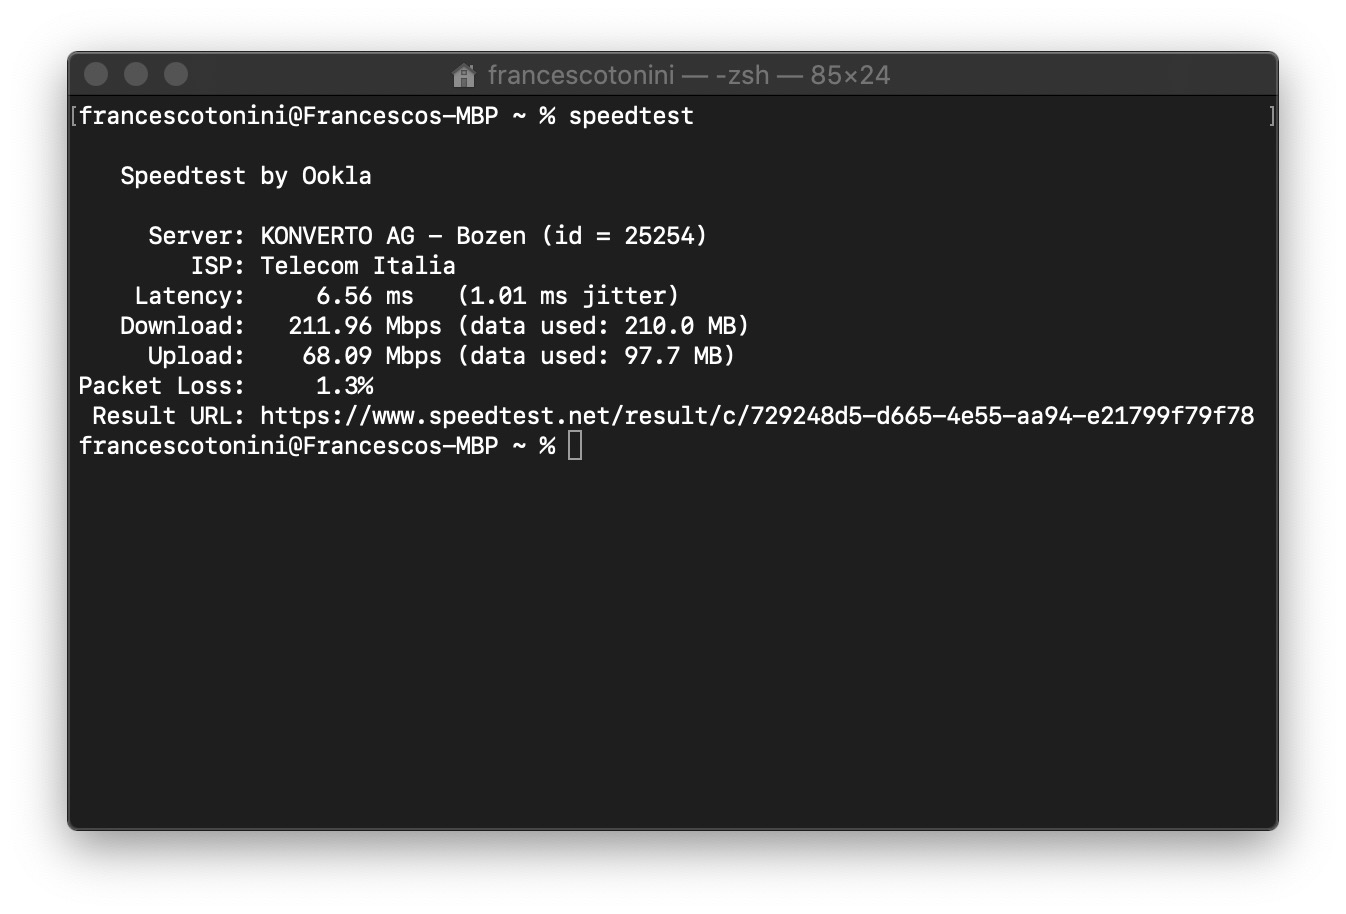
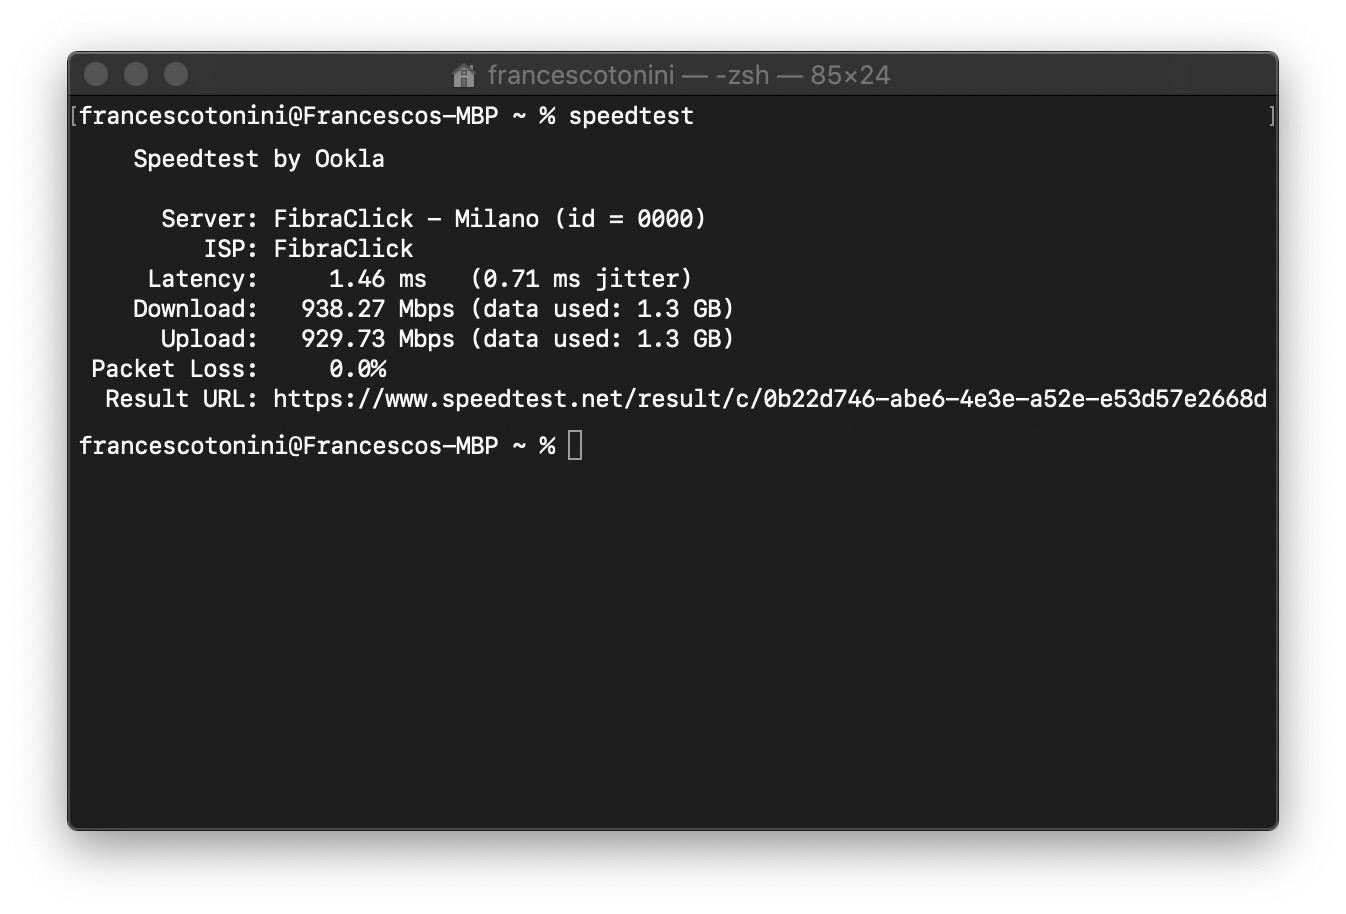
Aggiornati screenshot speedtest

Changed region(s): [[0.0624, 0.1532, 0.9361, 0.4902]]

diff --git a/content/posts/speedtest.md b/content/posts/speedtest.md
@@ -113,6 +113,6 @@ Trovi la lista completa dei server di Speedtest.net in [questa pagina XML](https
 
 Per mostrare tutte le opzioni di Speedtest CLI puoi scrivere `speedtest -h`.
 
-Le volte successive che dovrai eseguire uno speedtest potrai semplicemente aprire il terminale e scrivere `speedtest`.
+Le volte successive che vorrai eseguire uno speedtest potrai semplicemente aprire il terminale e scrivere `speedtest`.
 
 {{< footer >}}
